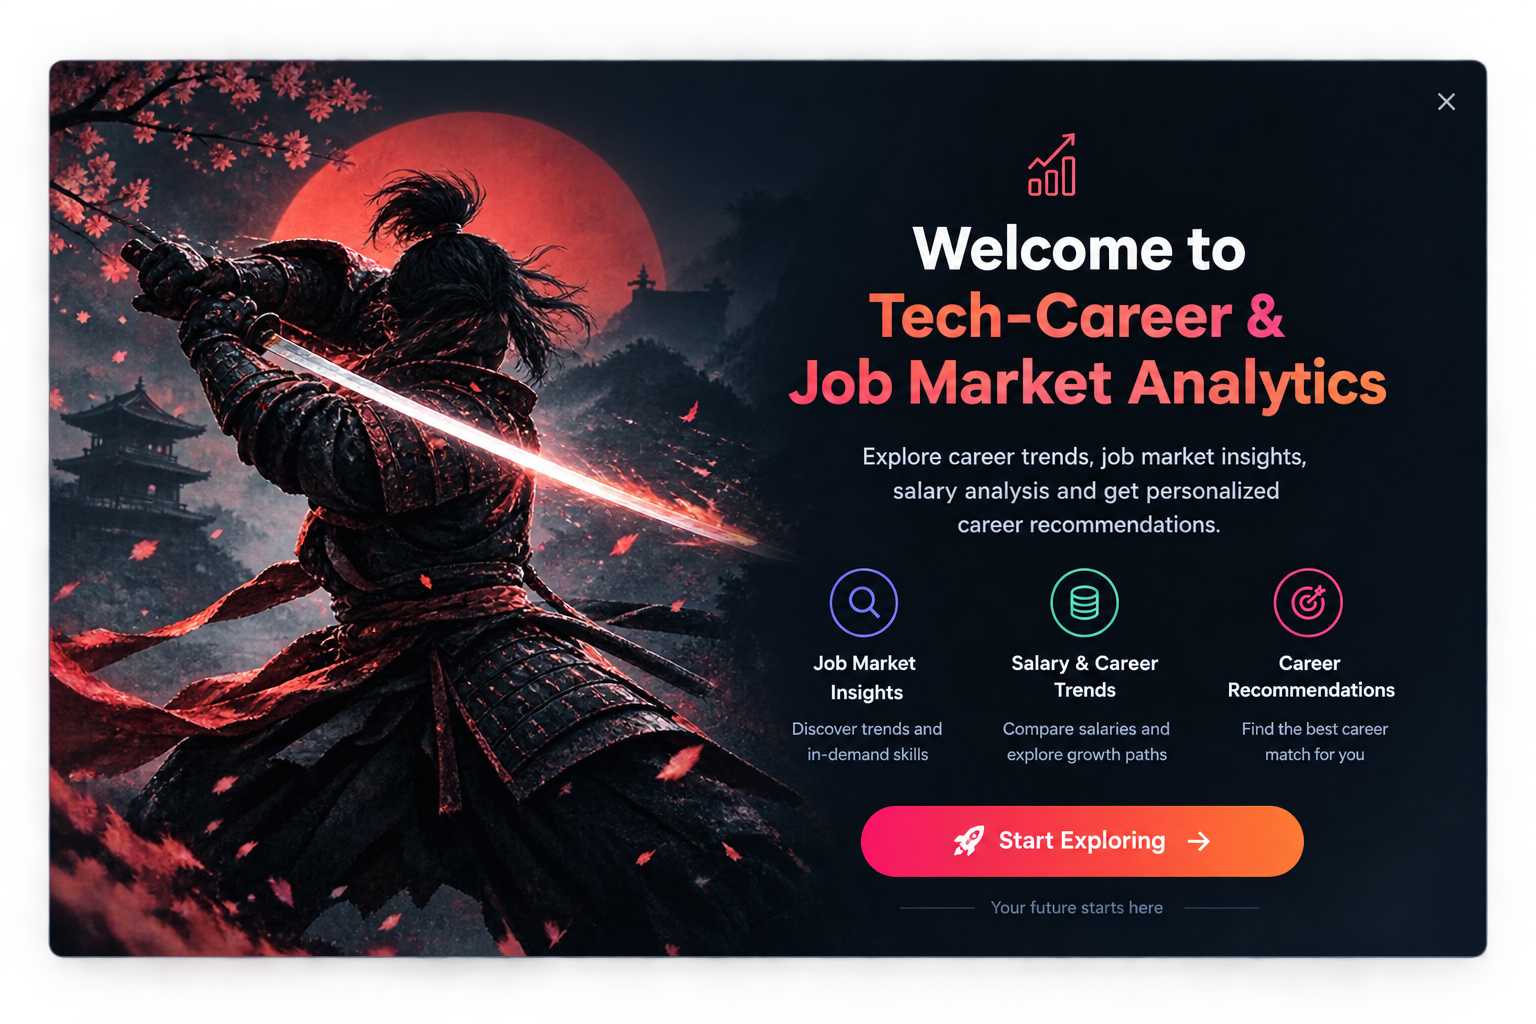
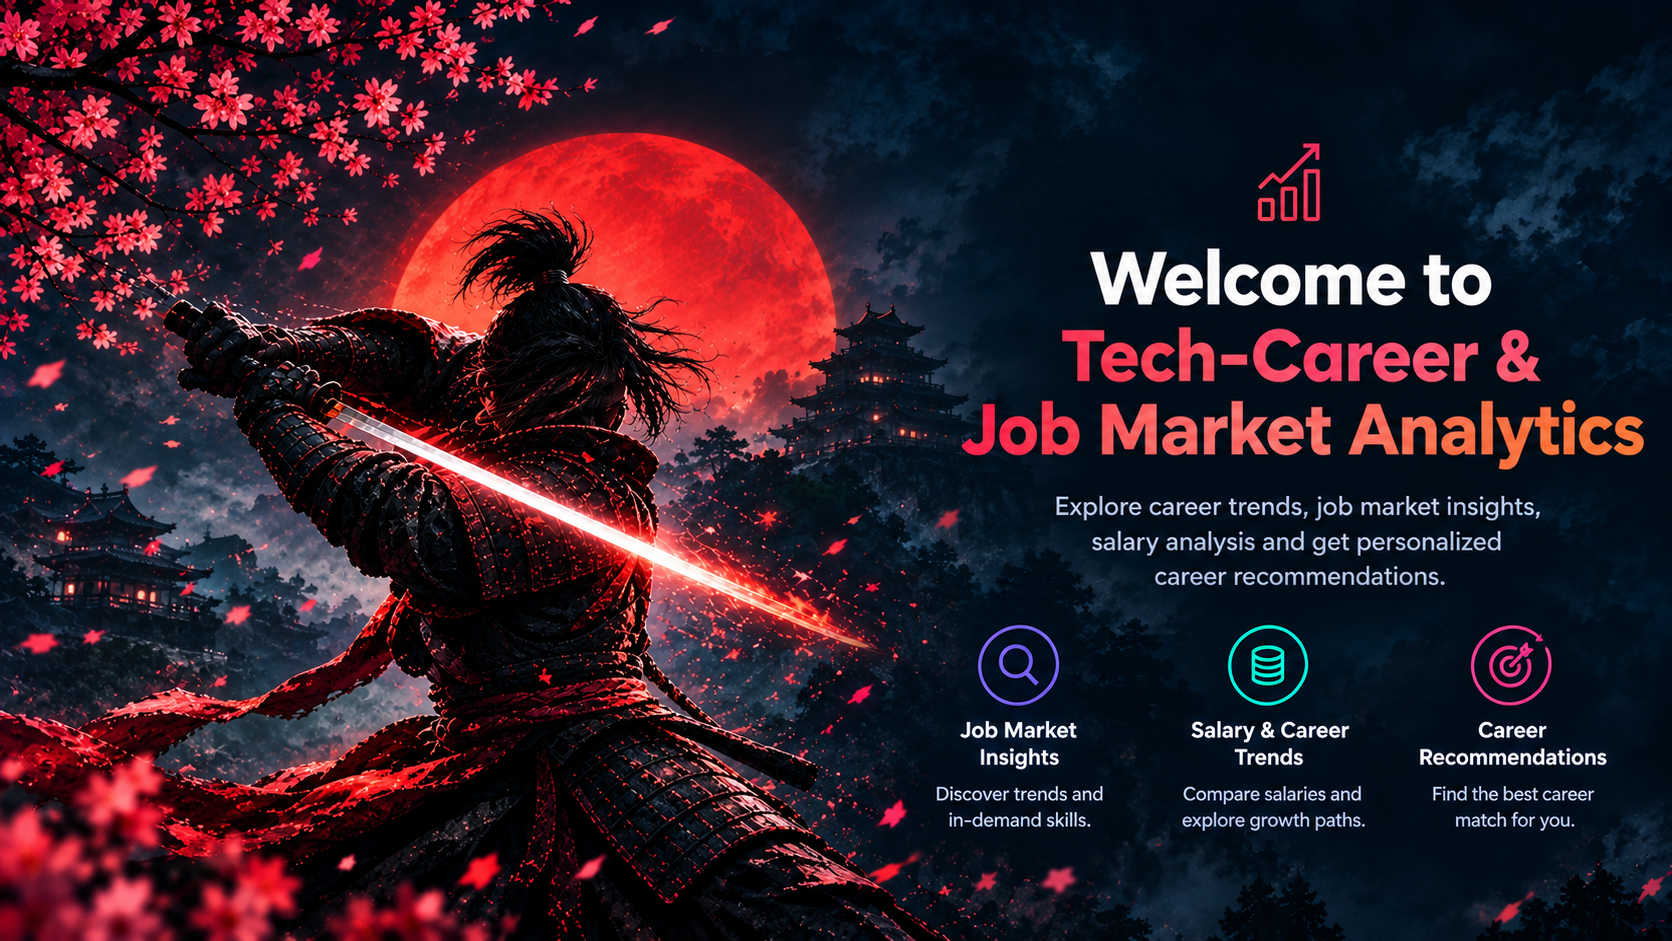
welcome page modification

diff --git a/Career_Job_Market_Analysis/Home.py b/Career_Job_Market_Analysis/Home.py
@@ -15,79 +15,24 @@ st.set_page_config(
 
 
 # ==========================================
-# FULL SCREEN WELCOME POPUP
+# WELCOME POPUP
 # ==========================================
 
 @st.dialog(" ")
 def welcome_popup():
 
-    st.markdown(
-        """
-        <style>
-
-        /* Make dialog large */
-        div[data-testid="stDialog"] > div {
-            width: 96vw !important;
-            max-width: 1600px !important;
-            height: 94vh !important;
-            max-height: 94vh !important;
-            padding: 10px 20px 20px 20px !important;
-        }
-
-        /* Hide dialog title */
-        div[data-testid="stDialog"] h2 {
-            display: none !important;
-        }
-
-        /* Remove unnecessary spacing */
-        div[data-testid="stDialog"] > div > div {
-            padding-top: 0px !important;
-        }
-
-        /* Image container */
-        .samurai-image {
-            width: 100%;
-            max-height: 82vh;
-            object-fit: contain;
-            display: block;
-            margin: 0 auto;
-            border-radius: 12px;
-        }
-
-        /* Button styling */
-        .stButton {
-            margin-top: 8px;
-        }
-
-        .stButton > button {
-            height: 52px;
-            font-size: 18px;
-            font-weight: 700;
-            border-radius: 12px;
-        }
-
-        </style>
-        """,
-        unsafe_allow_html=True
-    )
-
-    # ------------------------------------------
-    # Samurai Image
-    # ------------------------------------------
-
+    # Find the image in the same folder as Home.py
     IMAGE_PATH = Path(__file__).resolve().parent / "welcome_samurai.png"
 
+    # Display welcome image
     st.image(
         str(IMAGE_PATH),
         use_container_width=True
     )
 
-    # ------------------------------------------
-    # Start Exploring Button
-    # ------------------------------------------
-
+    # Real clickable Streamlit button
     if st.button(
-        "🚀  Start Exploring",
+        "🚀 Start Exploring",
         use_container_width=True
     ):
         st.session_state["welcome_closed"] = True
@@ -95,16 +40,13 @@ def welcome_popup():
 
 
 # ==========================================
-# SHOW POPUP
+# SHOW WELCOME POPUP
 # ==========================================
 
 if "welcome_closed" not in st.session_state:
-
     st.session_state["welcome_closed"] = False
 
-
 if not st.session_state["welcome_closed"]:
-
     welcome_popup()
 
 
